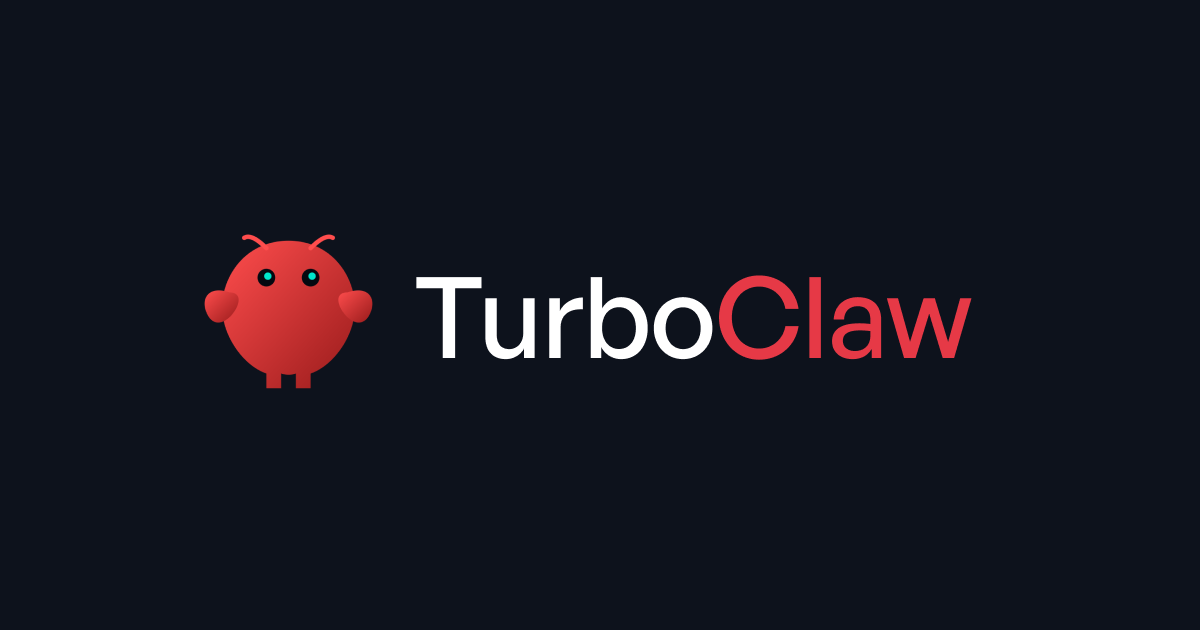
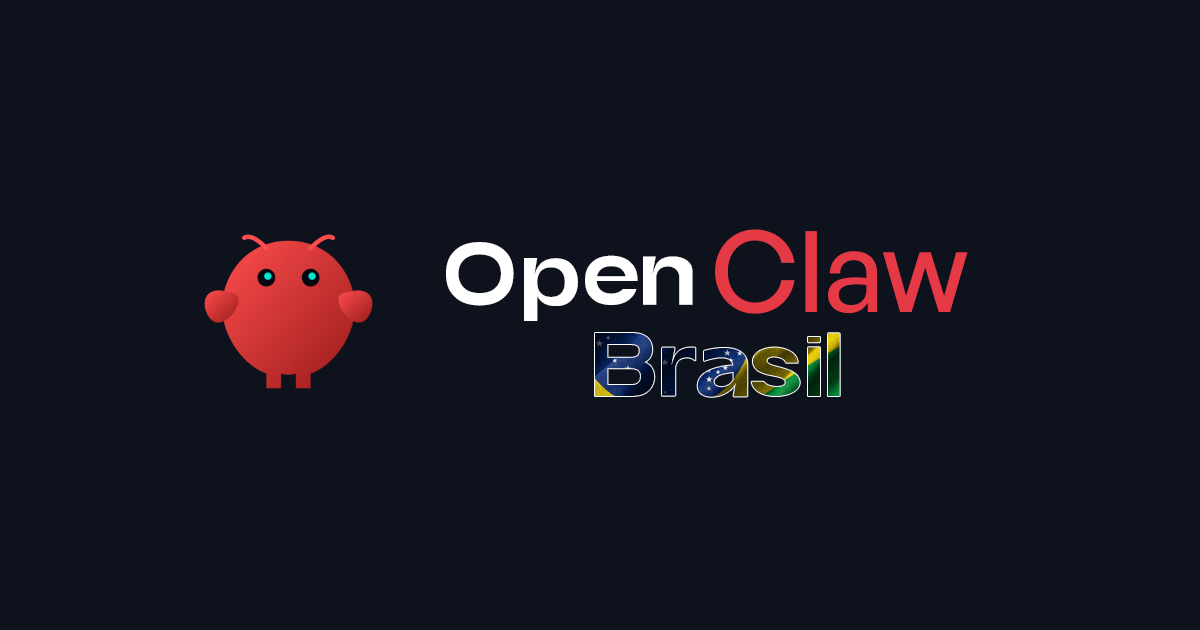
feat: rebrand to OpenClaw Brasil, remove TurboStarter references
- Update PRODUCT_NAME and DEFAULT_LOCALE across .env.example and docs
- Replace SVG logo text with styled text component in header and sidebar
- Update OG image, README, AGENTS.md, and docs to OpenClaw Brasil
- Remove BuiltWith component and builtWith translation keys
- Remove TurboStarter license check from dev script

Changed region(s): [[0.3392, 0.3619, 0.8325, 0.6333]]

diff --git a/apps/web/src/modules/common/layout/dashboard/sidebar/index.tsx b/apps/web/src/modules/common/layout/dashboard/sidebar/index.tsx
@@ -63,7 +63,12 @@ export const DashboardSidebar = memo<DashboardSidebarProps>(
             className="flex items-center gap-3 p-2 transition-[padding] group-data-[collapsible=icon]:p-0.5"
           >
             <Icons.Logo className="text-primary h-8 transition-[width,height]" />
-            <Icons.LogoText className="text-foreground h-4 group-data-[collapsible=icon]:hidden" />
+            <span className="text-foreground text-base font-bold tracking-tight group-data-[collapsible=icon]:hidden">
+              Open<span className="text-primary">Claw</span>{" "}
+              <span className="text-muted-foreground text-[10px] font-medium tracking-widest uppercase">
+                Brasil
+              </span>
+            </span>
           </TurboLink>
         </SidebarHeader>
 

diff --git a/apps/web/src/modules/marketing/layout/header.tsx b/apps/web/src/modules/marketing/layout/header.tsx
@@ -18,7 +18,12 @@ export const Header = async () => {
           aria-label={t("home")}
         >
           <Icons.Logo className="text-primary h-9 md:h-10" />
-          <Icons.LogoText className="text-foreground h-4.5 md:h-5" />
+          <span className="text-foreground text-lg font-bold tracking-tight md:text-xl">
+            Open<span className="text-primary">Claw</span>{" "}
+            <span className="text-muted-foreground text-xs font-medium tracking-widest uppercase">
+              Brasil
+            </span>
+          </span>
         </TurboLink>
 
         <div className="flex items-center justify-center">

diff --git a/docs/environment.md b/docs/environment.md
@@ -14,13 +14,13 @@ Use this shape in root `.env`:
 DATABASE_URL="postgresql://turbostarter:turbostarter@localhost:5432/openclaw"
 
 # The name of the product. This is used in various places across the apps.
-PRODUCT_NAME="TurboClaw"
+PRODUCT_NAME="OpenClaw Brasil"
 
 # The url of the web app. Used mostly to link between apps.
 URL="http://localhost:3000"
 
 # Default locale of the apps, can be overridden separately in each app.
-DEFAULT_LOCALE="en"
+DEFAULT_LOCALE="pt"
 ```
 
 ## 2) `apps/web/.env.local` (everything else)

diff --git a/README.md b/README.md
@@ -1,9 +1,9 @@
 <div align="center">
 
-# TurboClaw
+# OpenClaw Brasil
 
-Ship your OpenClaw wrapper in minutes. Powered by [TurboStarter](https://www.turbostarter.dev).
+Ative sua instância OpenClaw em 30 segundos.
 
-[📚 Documentation](/docs/README.md)&nbsp;&nbsp;&nbsp;&nbsp;&nbsp;[💬 Discord](https://discord.gg/KjpK2uk3JP)&nbsp;&nbsp;&nbsp;&nbsp;&nbsp;
+[📚 Documentation](/docs/README.md)
 
 </div>

diff --git a/AGENTS.md b/AGENTS.md
@@ -1,6 +1,6 @@
 # AGENTS.md
 
-Guide for AI agents working on the TurboClaw monorepo.
+Guide for AI agents working on the OpenClaw Brasil monorepo.
 
 ## Agent rules
 

diff --git a/docs/README.md b/docs/README.md
@@ -1,4 +1,4 @@
-# TurboClaw Docs
+# OpenClaw Brasil Docs
 
 1. [Environment Reference](./environment.md)
 2. [VPS Setup and Deployment](./vps-setup.md)
